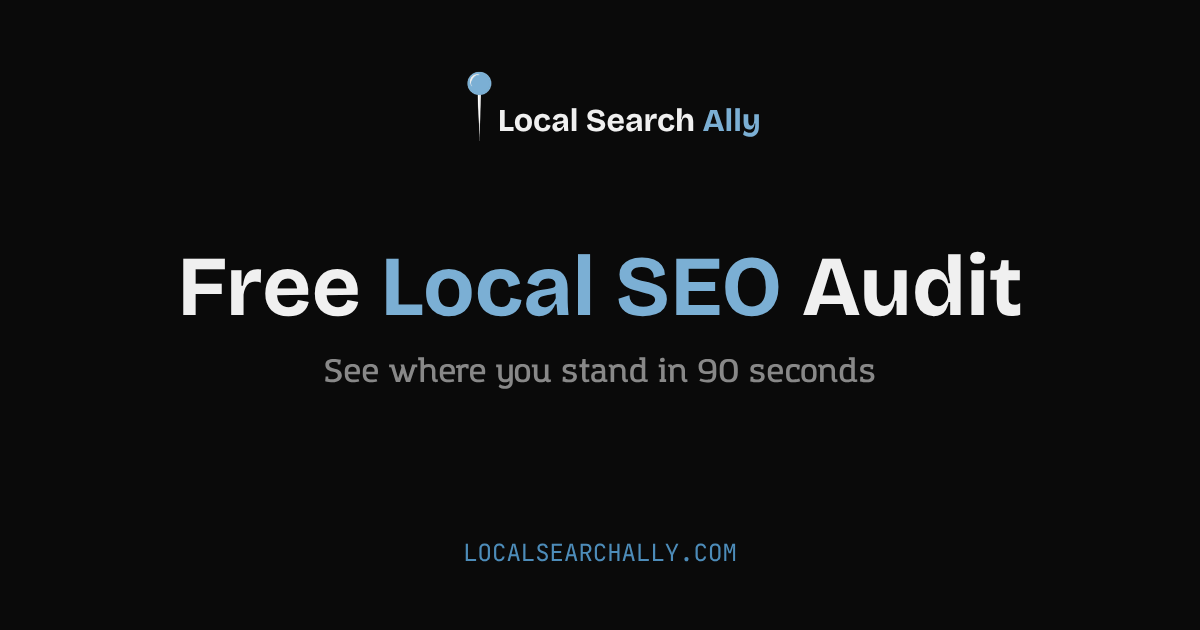
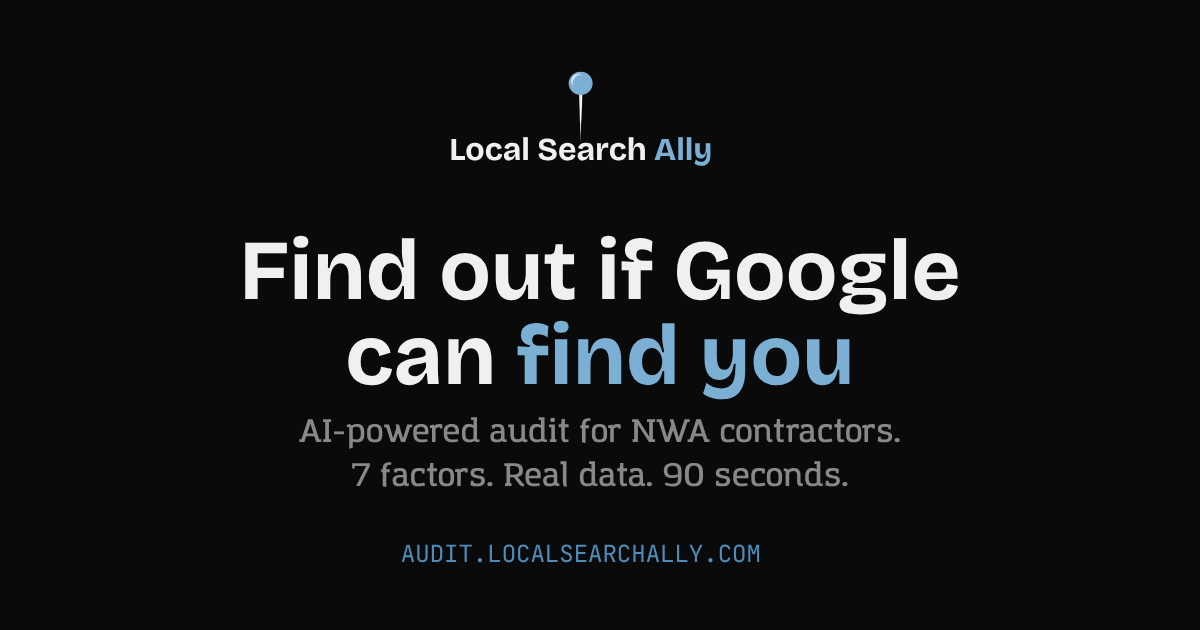
Update meta. Add OG image

diff --git a/app/free-local-seo-audit/page.tsx b/app/free-local-seo-audit/page.tsx
@@ -10,16 +10,31 @@ import styles from "@/styles/landing.module.css";
 export const metadata: Metadata = {
   title: "Free Local SEO Audit for Contractors | Local Search Ally",
   description:
-    "See exactly how your business shows up in Google — GBP, reviews, on-page SEO, citations, and more. Free AI-powered audit for NWA contractors. Results in 90 seconds.",
+    "Find out if Google can actually find your contracting business. This free AI-powered audit checks your Google Business Profile, reviews, on-page SEO, technical health, citations, backlinks, and how you stack up against the top 3 competitors ranking above you — in about 90 seconds. No signup. No credit card. Built for NWA home service trades.",
   alternates: {
-    canonical: "https://localsearchally.com/free-local-seo-audit",
+    canonical: "https://audit.localsearchally.com/free-local-seo-audit",
   },
   openGraph: {
-    title: "Free Local SEO Audit for Contractors | Local Search Ally",
+    title: "Find Out If Google Can Find You — Free Local SEO Audit",
     description:
-      "See exactly how your business shows up in Google. Real data. 90 seconds. Free.",
-    url: "https://localsearchally.com/free-local-seo-audit",
+      "AI-powered audit for NWA contractors. 7 factors. Real data. Plain-English findings. 90 seconds.",
+    url: "https://audit.localsearchally.com/free-local-seo-audit",
     type: "website",
+    images: [
+      {
+        url: "https://audit.localsearchally.com/og-audit.png",
+        width: 1200,
+        height: 630,
+        alt: "Local Search Ally — Free Local SEO Audit for Contractors",
+      },
+    ],
+  },
+  twitter: {
+    card: "summary_large_image",
+    title: "Find Out If Google Can Find You — Free Local SEO Audit",
+    description:
+      "AI-powered audit for NWA contractors. 7 factors. Real data. 90 seconds.",
+    images: ["https://audit.localsearchally.com/og-audit.png"],
   },
 };
 
@@ -162,9 +177,7 @@ export default function FreeLocalSEOAuditPage() {
         <p className={styles.footerCtaTitle} id='cta-heading'>
           The best contractor in town shouldn&rsquo;t be the hardest to find.
         </p>
-        <p className={styles.footerCtaSub}>
-          Free. No signup. 90 seconds.
-        </p>
+        <p className={styles.footerCtaSub}>Free. No signup. 90 seconds.</p>
         <a href='#top' className={styles.ctaBtn}>
           Run My Free Audit →
         </a>
